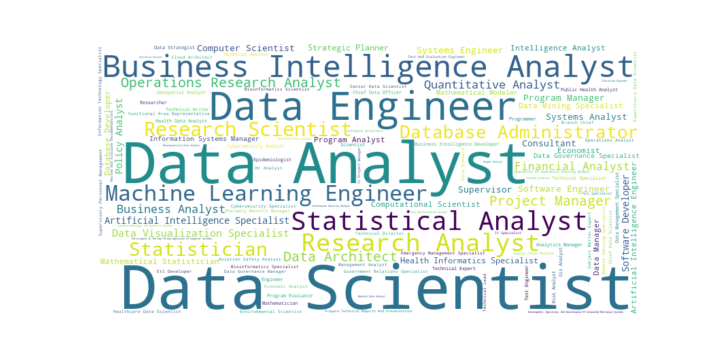
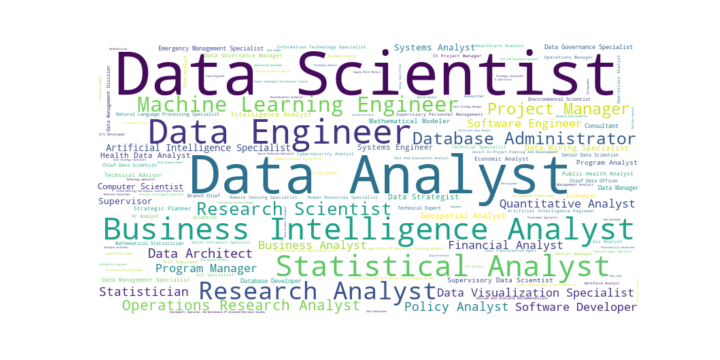
-with basic readme need requirements.txt

diff --git a/readme.md b/readme.md
@@ -1,0 +1,33 @@
+# Historical Job Listing Analysis for Occupational Code 1560 (Data Scientist)
+
+This repository is focused on analyzing historical job listings specifically for the occupational code 1560 (Data Scientist) from USAJobs using the historical jobs API. The scripts fetch, classify, cluster, and visually represent these listings, offering insights into job title frequencies and their related groupings.
+
+
+## Workflow
+
+1. **Fetching Historical Data**: `pull_historical.py`
+   - Fetches historical job listing data for the occupational code 1560 (Data Scientist) from USAJobs and writes it out for further processing.
+   
+2. **Multilabel Classification**: `multi_label_classifier.py`
+   - Uses machine learning (including potential calls to GPT-based models) to label each job listing with multiple job titles.
+   
+3. **Clustering**: `clustering.py`
+   - Clusters the data to group similar job roles together.
+
+4. **Graphics & Visualization**: `graphics_frequency_job_title.py`
+   - Produces a graphical representation, like a word cloud, of the most frequent job titles in the dataset.
+
+5. **Analysis of Result Agreement**: `analyze_result_agreement.py`
+   - If the `do_multi_labels` script performs more than one GPT API call for each listing, this script analyzes the agreement between the results. It then outputs a log file with the agreement scores.
+
+## Running the Scripts
+
+Execute the entire workflow by running the main script main.py.
+
+## Outputs
+
+1. Historical USAJobs job data for occupational code 1560.
+2. Labeled job listings with potential multiple titles.
+3. Data grouped by similar job roles using BERT.
+4. Visuals showcasing job title frequencies.
+5. A log file with agreement scores (if applicable).
